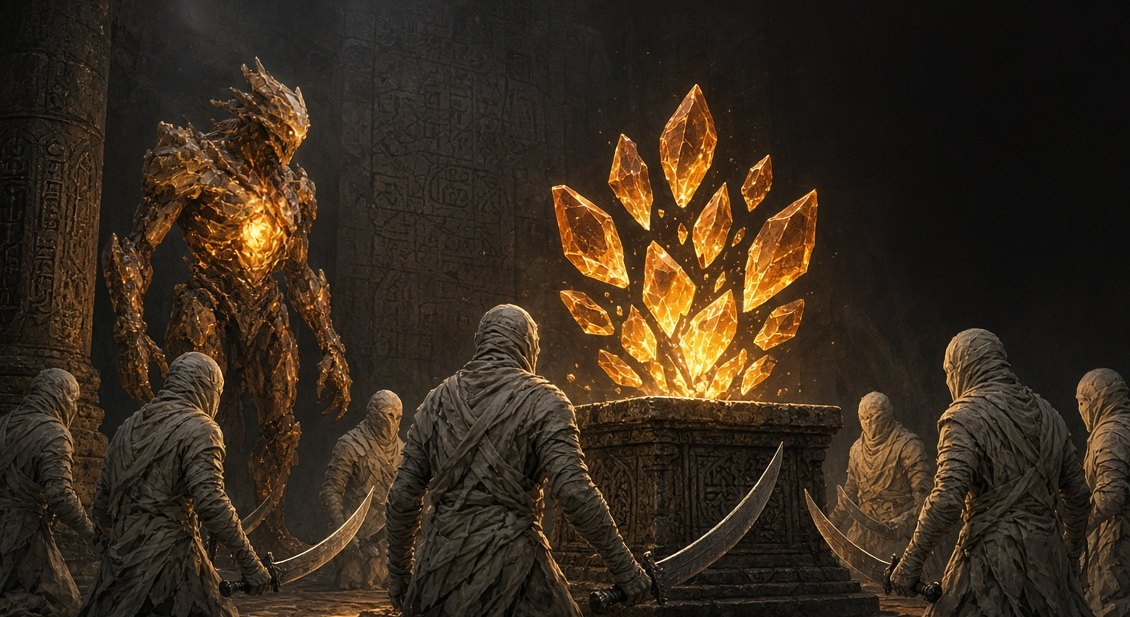
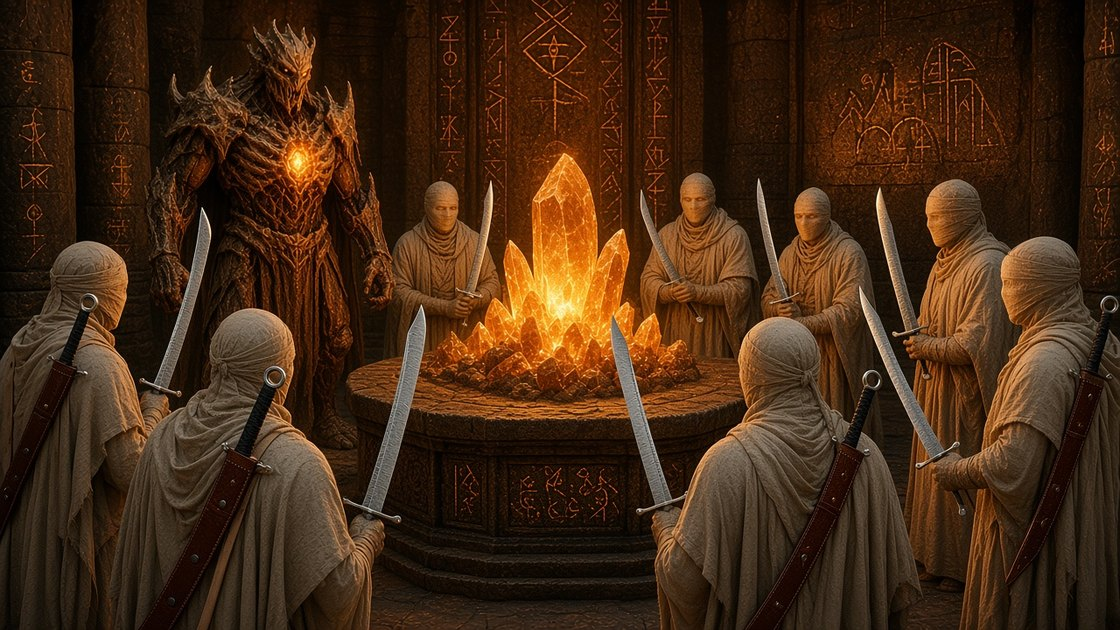
New Seekers intro art (Damascus falchions, ring pommels, husk); cache v57 (#68)

diff --git a/scripts/smoke.ts b/scripts/smoke.ts
@@ -2639,7 +2639,7 @@ assert(ids(s).includes('sybella-hold') && ids(s).includes('sybella-defy') && ids
 }
 
 const sw = readFileSync(new URL('../public/sw.js', import.meta.url), 'utf8')
-assert(sw.includes("CACHE = 'amber-shroud-v56'") && sw.includes('covers/carapace.jpg'), 'SW bumped so new portraits reach Pages')
+assert(sw.includes("CACHE = 'amber-shroud-v57'") && sw.includes('covers/carapace.jpg'), 'SW bumped so new portraits reach Pages')
 assert(sw.includes('covers/zafir.jpg') && sw.includes('covers/kaelen.jpg'), 'SW precaches NPC covers')
 assert(sw.includes('covers/camp04.jpg') && sw.includes('covers/sybella.jpg'), 'SW precaches door and antagonist covers')
 assert(sw.includes('favicon.png') && !sw.includes('favicon.svg'), 'SW precaches the cover favicon, not the Drop SVG')
@@ -2661,7 +2661,7 @@ assert(css.includes('--story-top: min(calc(56.25cqi * var(--band-bot, 0.5)), 50c
 assert(css.includes('rgba(12, 7, 4, 0.58)'), 'story scrim stays translucent so cover art shows through')
 assert(!css.includes('rgba(12, 7, 4, 0.88)'), 'story scrim is lighter than the v32 slab')
 const playSrc = readFileSync(new URL('../src/components/PlayScreen.tsx', import.meta.url), 'utf8')
-assert(playSrc.includes('?v=56'), 'scene cover URLs are cache-busted with the service worker')
+assert(playSrc.includes('?v=57'), 'scene cover URLs are cache-busted with the service worker')
 assert(!css.includes('object-position: center 68%'), 'scene art no longer crops toward the ground')
 assert(!css.includes('height: 56px'), 'short phones no longer squash covers into a head-cropping strip')
 assert(css.includes('place-items: center'), 'game screen is centered on the backdrop')

diff --git a/src/components/IntroCards.tsx b/src/components/IntroCards.tsx
@@ -12,14 +12,14 @@ export function IntroCards({ onDone, doneLabel }: Props) {
   const [i, setI] = useState(0)
   const card = INTRO_CARDS[i]
   const last = i === INTRO_CARDS.length - 1
-  const src = `${import.meta.env.BASE_URL}intro/${card.img}?v=56`
+  const src = `${import.meta.env.BASE_URL}intro/${card.img}?v=57`
 
   useEffect(() => {
     // Warm the next still so Next does not flash an empty frame.
     const next = INTRO_CARDS[i + 1]
     if (!next) return
     const img = new Image()
-    img.src = `${import.meta.env.BASE_URL}intro/${next.img}?v=56`
+    img.src = `${import.meta.env.BASE_URL}intro/${next.img}?v=57`
   }, [i])
 
   return (

diff --git a/src/game/intro.ts b/src/game/intro.ts
@@ -40,7 +40,7 @@ export const INTRO_CARDS: IntroCard[] = [
     id: 'seekers',
     title: 'The Seekers',
     img: 'seekers.jpg',
-    alt: 'Wrapped Seekers kneel before a burning amber shard on an altar while an Amber Husk stands behind them',
+    alt: 'Wrapped Seekers with Damascus falchions ring a burning amber shard on an altar while an Amber Husk stands behind them',
     text: 'The Seekers worship the shards and walk Amber Husks to guard what they claim. They are camped at the Outer Threshold, outside the Spire, and they cannot open its door. The way in lies at Red Maw.',
   },
   {

diff --git a/src/components/PlayScreen.tsx b/src/components/PlayScreen.tsx
@@ -226,7 +226,7 @@ export function PlayScreen({ state, onChange, onTitle, savedCue, saveToast }: Pr
   }
 
   const coverKey = playCoverKey(state, scene)
-  const artSrc = `${import.meta.env.BASE_URL}covers/${playCoverFile(coverKey)}?v=56`
+  const artSrc = `${import.meta.env.BASE_URL}covers/${playCoverFile(coverKey)}?v=57`
   const [bandTop, bandBot] = coverBand(coverKey)
   const artBand = { '--band-top': bandTop, '--band-bot': bandBot } as CSSProperties
 

diff --git a/public/sw.js b/public/sw.js
@@ -1,4 +1,4 @@
-const CACHE = 'amber-shroud-v56'
+const CACHE = 'amber-shroud-v57'
 const SCOPE = self.location.pathname.replace(/sw\.js$/, '')
 
 self.addEventListener('install', (event) => {
